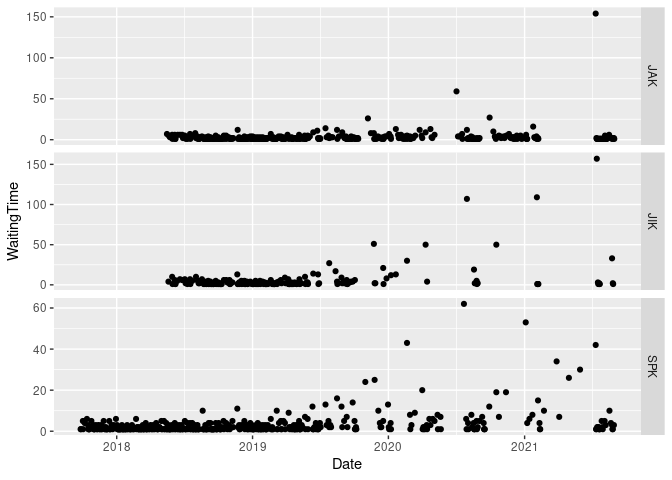
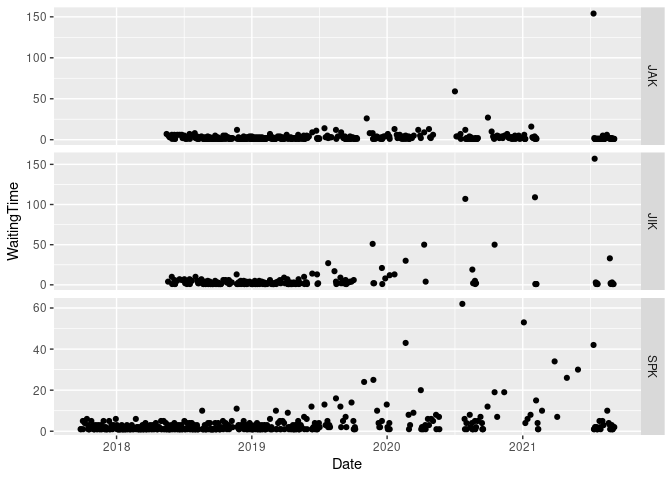
Added new data

diff --git a/analysis/nyt_mini_crossword.md b/analysis/nyt_mini_crossword.md
@@ -1,7 +1,7 @@
 ---
 title: "New York Time Mini Crossword"
 author: "Stephen Kaluzny"
-date: "30 August, 2021"
+date: "05 September, 2021"
 output:
   html_document:
     keep_md: true
@@ -82,6 +82,11 @@ d$WeekDay <- lubridate::wday(d$DateTime)
 d$TimeOfDayOrig <- d$TimeOfDay
 d$TimeOfDay <- hms::parse_hm(d$TimeOfDay)
 d$Seconds <- with(d, as.numeric(lubridate::seconds(lubridate::ms(Time))))
+```
+
+```
+## Warning in .parse_hms(..., order = "MS", quiet = quiet): Some strings failed to
+## parse, or all strings are NAs
 ```
 
 Compute the time interval, in days, between puzzle playing by `Player`.
@@ -167,7 +172,7 @@ d %>%
 
 ## Summary Statistics
 
-Current data set has 1097 observations.
+Current data set has 1113 observations.
 
 
 ```r
@@ -180,12 +185,12 @@ d %>% group_by(Player) %>%
 ## # A tibble: 6 × 6
 ##   Player  Mean Median   Min   Max     N
 ##   <chr>  <dbl>  <dbl> <dbl> <dbl> <int>
-## 1 SKK     51     47      21    89     4
-## 2 AKK     55     55      55    55     1
-## 3 JIK     80.8   61.5    13   264   202
-## 4 SPK    105.    86      18   455   449
-## 5 JAK    103.    87      27   454   386
-## 6 BBK    117.   102      42   350    55
+## 1 SKK     51       47    21    89     4
+## 2 AKK     55       55    55    55     1
+## 3 JIK     80.6     62    13   264   207
+## 4 JAK    104.      87    27   454   392
+## 5 BBK    117.     102    42   350    55
+## 6 SPK     NA       NA    NA    NA   454
 ```
 
 ## Subset the Data
@@ -200,7 +205,7 @@ d <- d %>%
   filter(Player %in% c("SPK", "JAK", "JIK"))
 ```
 
-Now have 1037 observations.
+Now have 1053 observations.
 
 ## Plots
 
@@ -212,6 +217,10 @@ d %>%
   ggplot(aes(x=WeekDay, y=Seconds)) +
     geom_jitter(position = position_jitter(width=.3)) +
     ggtitle("Time vs Day of the Week")
+```
+
+```
+## Warning: Removed 1 rows containing missing values (geom_point).
 ```
 
 ![](nyt_mini_crossword_files/figure-html/plot01-1.png)<!-- -->
@@ -226,9 +235,18 @@ d %>%
     ggtitle("Time vs Day of the Week")
 ```
 
+```
+## Warning: Removed 1 rows containing missing values (geom_point).
+```
+
 ![](nyt_mini_crossword_files/figure-html/plot02-1.png)<!-- -->
 
 The distribution of the times, summarised in a boxplot:
+
+
+```
+## Warning: Removed 1 rows containing non-finite values (stat_boxplot).
+```
 
 ![](nyt_mini_crossword_files/figure-html/plot03-1.png)<!-- -->
 
@@ -284,6 +302,10 @@ d2 %>% filter(Player %in% c("SPK", "JAK")) %>%
   ggplot(aes(x=Date, y=Seconds, color=Player)) + geom_point()
 ```
 
+```
+## Warning: Removed 1 rows containing missing values (geom_point).
+```
+
 ![](nyt_mini_crossword_files/figure-html/spk_vs_jak-1.png)<!-- -->
 
 ```r
@@ -326,7 +348,7 @@ sessionInfo()
 ## [1] ggplot2_3.3.5 dplyr_1.0.7   tidyr_1.1.3   assertr_2.8  
 ## 
 ## loaded via a namespace (and not attached):
-##  [1] Rcpp_1.0.7       highr_0.9        pillar_1.6.2     bslib_0.2.5.1   
+##  [1] Rcpp_1.0.7       highr_0.9        pillar_1.6.2     bslib_0.3.0     
 ##  [5] compiler_4.1.1   jquerylib_0.1.4  tools_4.1.1      digest_0.6.27   
 ##  [9] lubridate_1.7.10 jsonlite_1.7.2   evaluate_0.14    lifecycle_1.0.0 
 ## [13] tibble_3.1.4     gtable_0.3.0     pkgconfig_2.0.3  rlang_0.4.11    
